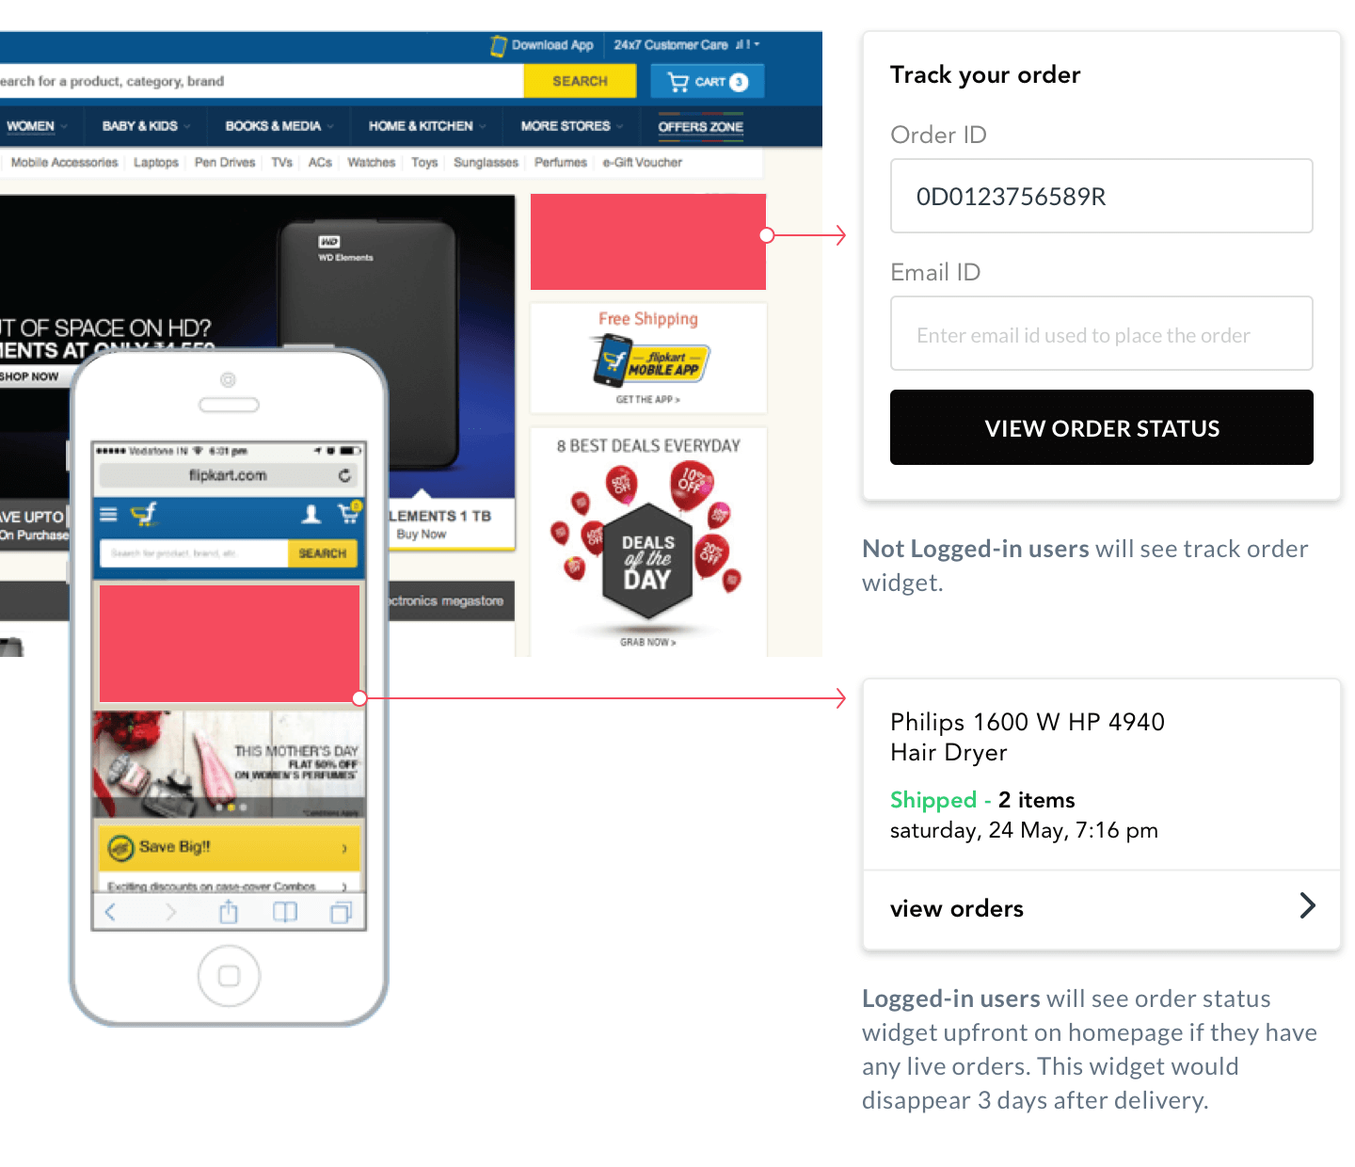
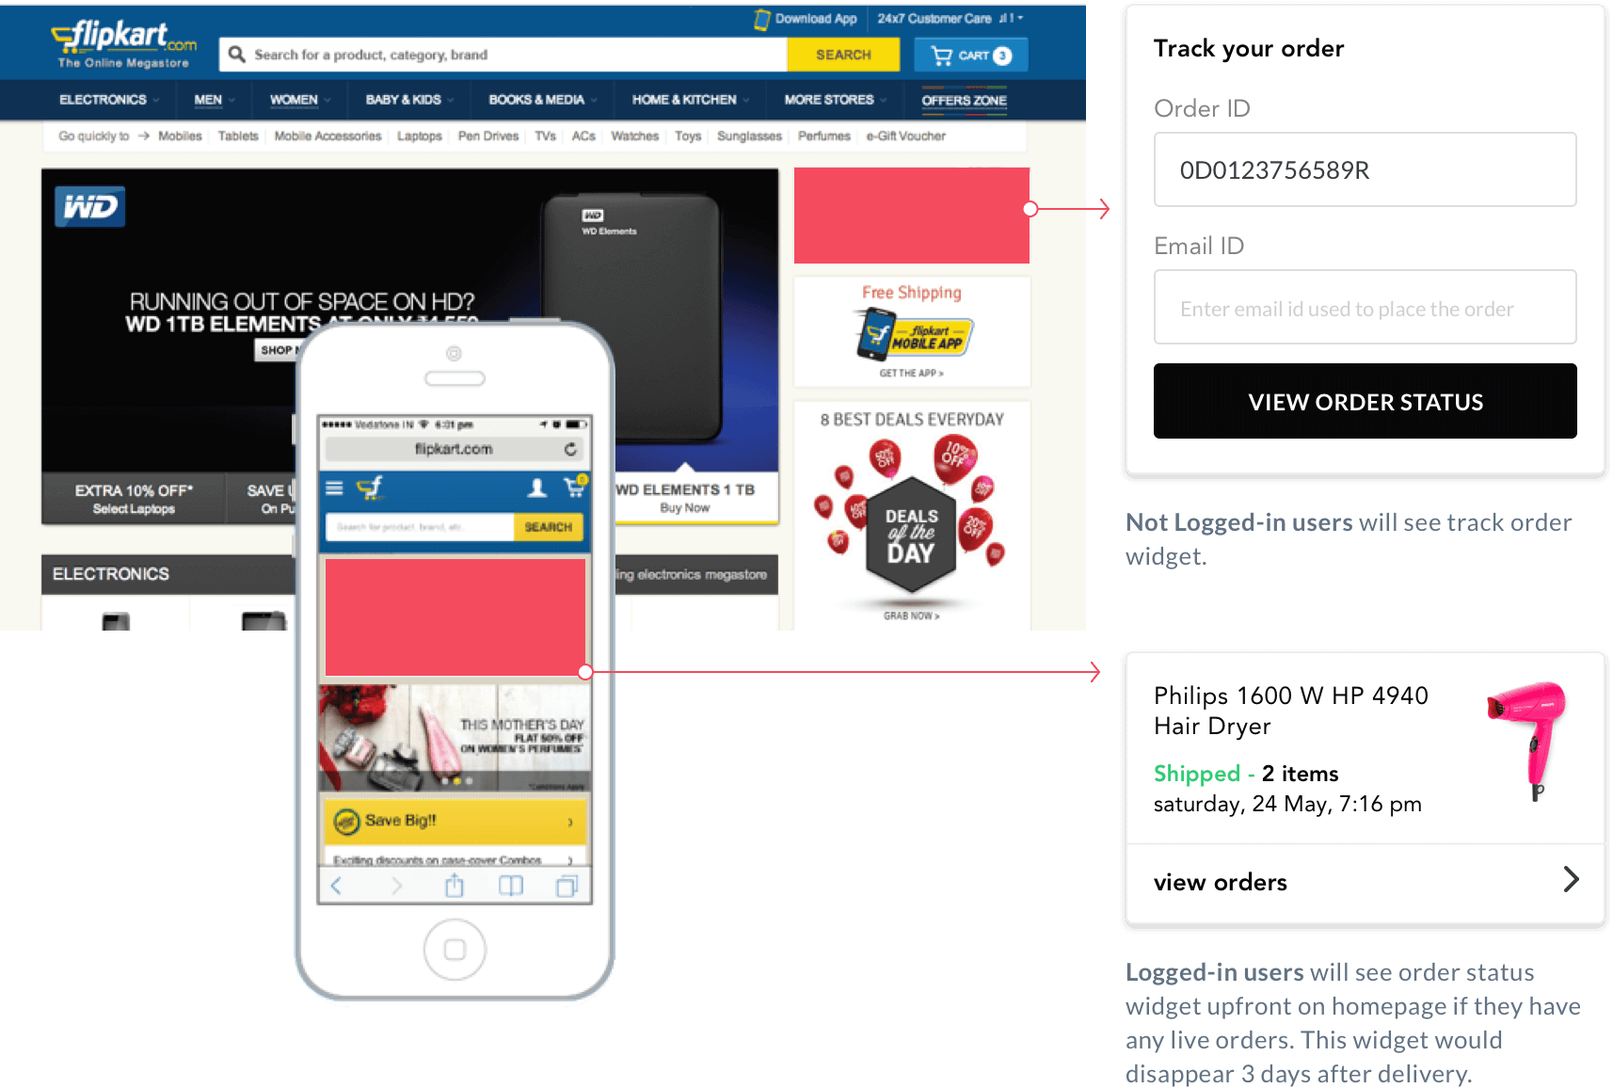
content edits

diff --git a/numberz.html b/numberz.html
@@ -4,12 +4,16 @@
 <head>
     <meta charset="utf-8">
     <title>Parul Bhatti - numberz</title>
-    <meta name="viewport" content="width=device-width, initial-scale = 1.0, maximum-scale=1.0, user-scalable=no" />
+    <meta name="author" content="Parul Bhatti, @parul_bhatti">
+    <meta name="description" content="Portfolio of Parul Bhatti">
+    <meta name="keywords" content="Parul, Bhatti, web standards, CSS, HTML, HTML5, markup, style, web design, web development, ui, ux, bangalore, India">
+    <meta name="viewport" content="width=device-width; initial-scale = 1.0; maximum-scale=1.0; user-scalable=no" />
     <link rel="icon" href="Images/pb_favicon.png" type="image/png"/>
     <link rel="stylesheet" type="text/css" href="css/styles.css">
     <link href="https://fonts.googleapis.com/css?family=Lato" rel="stylesheet">
     <script src="https://code.jquery.com/jquery-3.3.1.js"></script>
     <link rel="stylesheet" href="https://unpkg.com/flickity@2/dist/flickity.min.css">
+    <script src="https://unpkg.com/flickity@2/dist/flickity.pkgd.min.js"></script>
 </head>
 
 <body>
@@ -102,16 +106,12 @@
                 <!------------------------------------ PROJECT - FULL WIDTH STARTS ------------------------->
                 <div class="mini_container column_container section-1">
                     <div class="intro_title">numberz</div>
-                    <p>numberz is a fintech startup focussed on building products to help businesses manage their cashflow
-                        and account receivables.</p>
-                    <br>
-                    <p>I joined numberz as one of their first designers and led the design of cashflow management - ios app
-                        single-handedly. After successfully launching the app, I worked with founders on a few fintech solutions
-                        on GST tax filing & payment collections for Chartered Accountants. These experiments however didn’t
-                        saw the day of the light due to change in company strategy. By this time I had built a multi-disciplinary
-                        design team comprising of talents with complementary competencies: a ux intern, ux researcher-cum-designer
-                        & a ux-engg. Together we conceptualized, validated & released Account Receivables web app (mvp) in
-                        early 2018.</p>
+                    <p>numberz is a fintech startup focussed on building products to help businesses manage their cash flow and account receivables.
+                    I joined numberz as one of their first designers and led the design of cashflow management - ios app single-handedly. 
+                    After successfully launching the app, I worked with founders on a few product ideas around GST tax filing & payment collections for Chartered Accountants. 
+                    By this time I had built a multi-disciplinary design team comprising of talents with complementary competencies: a ux intern, ux researcher-cum-designer & a ux-engg. 
+                    Together we designed, validated & released Account Receivables web app in early 2018.</p>
+
                     <div class="info">
                         <p class="sub_info"><span style="font-weight: bold">Role:&nbsp </span> Head of Design</p>
                         <p class="sub_info"><span style="font-weight: bold">Duration:&nbsp </span> 2017-18</p>
@@ -122,16 +122,15 @@
                 </div>
                 <div id="cashflow" class="mini_container column_container section_3">
                     <div class="section_title mt150">Cashflow Management for Small Businesses | ios app</div>
-                    <p>The brief was to design a simple invoicing & expense management ios app that helps numberz’s existing
-                        web app customers manage their business anytime & anywhere on mobile. We followed IOS first approach
-                        to meet the demands of the existing user base which were largely iphone users.</p>
+                    <p>The brief was to design a simple invoicing & expense management ios app that helps numberz’s existing web app customers 
+                        manage their business anytime & anywhere on mobile. We followed ios first approach since the existing user base 
+                        was mostly iphone users.</p>
                     <br>
-                    <p>The project started with understanding the business requirement and studying the way it was addressed
-                        in their web app workflows. The existing web workflows were found to be plagued with a plethora of
-                        UX / UI issues, to name a few: unwidely navigation & fragmented UI. Some of these issues were already
-                        reported by web app users. Idea was to create a simple app that lets the user create, send and track
-                        invoices with ease. I got founder’s alignment on redesigning the core workflows for mobile and following
-                        the ios UI style approach, with the aim to carry it to android & later to web app.</p>
+                    <p>I studied the existing web app and sifted through customer complaints to identify the problem areas in the workflows. 
+                        I got founder's alignment on 'not replicating the web experience on app' since the user expectation and interactions on mobile are different. 
+                        Thinking mobile forced us to think about what’s really important for customers. As a result, we designed & 
+                        released the core functionalities first, i.e. letting customer create, send and track invoices & expenses and 
+                        view critical reports with ease on mobile.</p>
 
                     <div class="target_title">Target customers</div>
                     <p>The target customers were existing numberz’s cashflow management web app users, consisting of freelancers
@@ -186,9 +185,9 @@
                             in one glance. This screen is split into two parts:</p>
                         <br>
                         <p><span style="font-weight: bold">1. Top Carousel:&nbsp</span>Gives an overview of..</p>
-                        <p>> Outstanding Invoices & Money In (paid invoices)</p>
-                        <p>> Pending expenses & Money Out (paid expense)</p>
-                        <p>> Money gain or loss: Health of the bank balance</p>
+                        <p>> Outstanding invoices & Money In </p>
+                        <p>> Pending expenses & Money Out </p>
+                        <p>> Money gain or loss: Health of the bank balance </p>
                         <p>Based on customer validation, the invoice view is kept as default view since most of the customers
                             were keen on seeing the money they need to chase (outstanding invoices) first.</p>
                         <br>
@@ -234,6 +233,7 @@
 
                 <div class="container section_12">
                     <img src="Images/invoice_4.png" class="image">
+                    <p class="image_label" style="margin-top: -50px"> Key reports from web app (left) were redesigned for mobile</p>
                 </div>
 
 
@@ -244,23 +244,21 @@
                 <!------------------------------------ PROJECT - FULL WIDTH STARTS ------------------------->
                 <div class="mini_container column_container section_3">
                     <div class="section_title mt150">Account Receivable | web & mobile responsive app</div>
-                    <p>Account receivable is a CRM of payment collection designed to make collecting money fast, easy, and
-                        highly predictable. It was initially conceptualised & built as an easy to use invoice presentment
-                        tool to help mid-size businesses get a one shot-view of their outstanding: due, overdue invoices
-                        (across all customers) they need to chase for payment collection, with the help of a lightweight
-                        automated reminder engine. The poc of the solution was thoroughly validated in the presale customer
-                        interactions both by sales, design & pm team with the help of design prototypes. </p>
+                    <p>Account receivable is a CRM of payment collection designed to make collecting money fast, easy, and highly predictable. 
+                        It was initially conceptualised & built as an easy to use invoice presentment tool to help mid-size businesses get a one shot-view of 
+                        their outstanding: due, overdue invoices they need to chase for payment collection, with the help of a lightweight automated reminder engine. 
+                        The p.o.c was thoroughly validated in the presale customer interactions both by sales, design & pm team with the help of design prototypes. </p>
                     <br>
-                    <p>Once we got enough validations and decent customer adoption at mid-size business segment lvl, we designed
-                        and upgraded it to full-fledged CRM for collections to fullfill the needs of large businesses with
-                        dedicated finance & collection teams struggling with tedious excels to manage their collections.</p>
+                    <p>Once we got enough validations and decent customer adoption at the mid-size business segment, we designed and upgraded it to full-fledged 
+                        CRM for collections to fulfill the needs of large businesses with dedicated finance & collection teams struggling with 
+                        tedious excels in managing their collections.</p>
 
                     <div class="target_title">Target customers</div>
                     <p>The target customers varried from accountants & sales team (who double up as collection agents) in
                         mid-size busineses (5-30cr) to finance & sales teams in large busineses (70cr & above).</p>
 
                     <div class="info">
-                        <p class="sub_info"><span style="font-weight: bold">Contributors:&nbsp </span> I led a team3 Product
+                        <p class="sub_info"><span style="font-weight: bold">Contributors:&nbsp </span> I led a team of 3 Product
                             Designers </p>
                     </div>
                 </div>
@@ -271,21 +269,18 @@
 
                 <div class="mini_container section_5 mt30 mb30">
                     <div class="para_title">A CRM for collections to get businesses paid faster</div>
-                    <p><span style="font-weight: bold">Problem:&nbsp</span>One of the big challenges in small, medium or
-                        large business is ensuring their customers pay on time so that their business cashflow remains healthy.
-                        Customers many times take 15-50 days to pay over the assigned credit period and this puts business
-                        cashflow at risk. The existing ERP solutions don't cover workflows around payment collections like
-                        keeping a track of business (collection team) & customer interaction on payments/disputes. Hence,
-                        reducing the scope of tracking data that reflects your customer’s behavior dynamically, and on a
-                        real-time basis.</p>
+                    <p><span style="font-weight: bold">Problem:&nbsp</span>One of the big challenges in small, medium or large business is ensuring 
+                        their customers pay on time so that their business cashflow remains healthy. Customers many times take 15-50 days to pay 
+                        over the assigned credit period and this puts business cashflow at risk. The existing ERP solutions don't cover workflows 
+                        around payment collections like keeping a track of business & customer interaction on payments/disputes. Hence, reducing the 
+                        scope of tracking data that reflects customer’s behavior dynamically, and on a real-time basis.</p>
                     <br>
-                    <p><span style="font-weight: bold">Solution:&nbsp</span>We designed CRM for payment collection with integrated
-                        task & activity workflows to manage collection at customer & invoice level, tracking every bit of
-                        information generated during the interaction and progress in real-time. The solution helps collection
-                        team follow up on prioritized tasks, track expected payments, promise-to-pay & solve payment disputes.
-                        It also offers insights on collection team’s performance and better visibility of high & low-risk
-                        customers. Designing for better visibility of information that will aid in timely collection & the
-                        workflows around it was the challenge we had.</p>
+                    <p><span style="font-weight: bold">Solution:&nbsp</span>We designed CRM for payment collection with integrated task & activity 
+                        workflows to manage collection at customer & invoice level, tracking every bit of information generated during the interaction 
+                        and progress in real-time. The solution helps the collection team follow up on prioritized tasks, track expected payments, 
+                        promise-to-pay & solve payment disputes. It also offers insights on the collection team’s performance and better visibility of 
+                        high & low-risk customers. Designing for better visibility of information that will aid in timely collection & the workflows 
+                        around it was the challenge we had.</p>
                 </div>
 
                 <div class="main_gallery section_6 mb50 mt50">
@@ -309,12 +304,11 @@
 
                 <div class="mini_container section_7 mt70">
                     <div class="para_title">Designing tables</div>
-                    <p>Designing an enterprise application means one has to deal with tons of data and grids and tables.
-                        Efficient data tables allow users to scan, analyze, compare, filter, sort, and manipulate information
-                        to derive insights and take informed actions. Some of the key principles that guided table design
-                        process:&nbsp </p>
+                    <p>Designing an enterprise application means one has to deal with tons of data and grids and tables. 
+                        Efficient data tables allow users to scan, analyze, compare, filter, sort, and manipulate information to derive insights and 
+                        take informed actions. Some of the fundamental principles that guided the table design process: </p>
 
-                    <p>1. Ability to scan lots of data at once i.e. show multiple status & data types like numerals & text.</p>
+                    <p>1. Ability to scan lots of data at once, i.e., show various status & data types like numerals & text.</p>
                     <p>2. Help user take informed actions by easy comparison of data in columns & rows.</p>
                 </div>
 
@@ -328,22 +322,18 @@
                 <!------------------------------------ PROJECT - FULL WIDTH STARTS ------------------------->
                 <div class="mini_container column_container section_3">
                     <div class="section_title mt150">Designing nu UI style guide</div>
-                    <p>An early investment in designing a basic UI style guide in parallel with product helped significantly
-                        in building proof of concepts fast be it at a feature level or a whole new product being conceptualized
-                        from grounds up. I didnot have to re-invent the wheel to think about basics like color, use of icons,
-                        typography, buttons etc. This also helped me achieve an almost consistent design language in my workflows,
-                        across all products.</p>
+                    <p>An early investment in designing a basic UI style guide in parallel with product helped significantly in 
+                        building proof of concepts fast be it at a feature level or a whole new product being conceptualized from grounds up. 
+                        I didn't have to re-invent the wheel to think about fundamentals like color, use of icons, typography, buttons, etc. 
+                        This also helped me achieve an almost consistent design language in my workflows, across all products.</p>
                     <br>
-                    <p>As our product scaled and so did our design team. More no. of UI components were designed, old components
-                        like filters, date pickers, tables etc were improved upon to solve more business use cases. By this
-                        time I had one more designer contributing to designing component and another consuming it, hence
-                        the need to make our guidelines more mature & accessible so that it's easier to use and clearer to
-                        discern both for designers & developers with various backgrounds. </p>
+                    <p>As our product scaled, and so did our design team. More no. of UI components were designed, old components like filters, date pickers, tables, 
+                        etc were improved upon to solve more business use cases. By the time I had one more designer contributing to designing component and another 
+                        consuming it, hence the need to make our guidelines more mature & accessible so that it's easier to use and clearer to discern both for designers 
+                        & developers with various backgrounds.</p>
 
                     <div class="info">
-                        <p class="sub_info"><span style="font-weight: bold">Contributors:&nbsp </span> I designed the basic
-                            UI style guide. 2 Product Designers (incl. myself) for scaling it to a mature UI style guide.
-                            </p>
+                        <p class="sub_info"><span style="font-weight: bold">Contributors:&nbsp </span> 2 Product Designers (incl. myself)</p>
                     </div>
                 </div>
                 <div class="full_container section_4 mb50 mt50">

diff --git a/flipkart.html b/flipkart.html
@@ -4,12 +4,16 @@
 <head>
     <meta charset="utf-8">
     <title>Parul Bhatti - numberz</title>
-    <meta name="viewport" content="width=device-width, initial-scale = 1.0, maximum-scale=1.0, user-scalable=no" />
+    <meta name="author" content="Parul Bhatti, @parul_bhatti">
+    <meta name="description" content="Portfolio of Parul Bhatti">
+    <meta name="keywords" content="Parul, Bhatti, web standards, CSS, HTML, HTML5, markup, style, web design, web development, ui, ux, bangalore, India">
+    <meta name="viewport" content="width=device-width; initial-scale = 1.0; maximum-scale=1.0; user-scalable=no" />
     <link rel="icon" href="Images/pb_favicon.png" type="image/png"/>
     <link rel="stylesheet" type="text/css" href="css/styles.css">
     <link href="https://fonts.googleapis.com/css?family=Lato" rel="stylesheet">
     <script src="https://code.jquery.com/jquery-3.3.1.js"></script>
     <link rel="stylesheet" href="https://unpkg.com/flickity@2/dist/flickity.min.css">
+    <script src="https://unpkg.com/flickity@2/dist/flickity.pkgd.min.js"></script>
 </head>
 
 <body>
@@ -216,12 +220,20 @@
                         </div>
                     </div>
 
-                    <div class="full_container row_container section_11 mb70 mt70"> 
+                    <div class="full_container row_container section_11 mb150 mt150"> 
                         <div class="rightcontent_section">
                             <div class="para_title">Proposed track order widget on homepage</div>
-                            <p> The following proposal wasn’t considered as this was one of the most revenue generating touchpoints on homepage, 
-                                reserved only for Offers & Deals showcase.
+                            <p> During user testing, we tasked users to look for their Track Order related info on web & mobile app. 
+                                We observed many of them ended up scanning homepage up & down, and very small % of them went to My Account 
+                                in the top bar to discover their order related info. 
                             </p>
+                            <br>
+                            <p> Clearly, homepage was looked as a touchpoint where users could find everything they need easily and quickly. 
+                                This led me to propose the Track Order (not-logged in users) and Order Status (logged-in users) widget in the 
+                                zones of the highest visibility to catch user’s attention. 
+                            </p>
+                            <br>
+                            <p> This proposal wasn’t considered as the identified zones were the most revenue generating identified touchpoints, reserved only for Offers & Deals showcase. </p>
                         </div>
                         <div class="leftimg_section">
                             <img src="Images/trackwidget.png" class="image">

diff --git a/tablehero.html b/tablehero.html
@@ -4,12 +4,16 @@
 <head>
     <meta charset="utf-8">
     <title>Parul Bhatti - Tablehero</title>
-    <meta name="viewport" content="width=device-width, initial-scale = 1.0, maximum-scale=1.0, user-scalable=no" />
+    <meta name="author" content="Parul Bhatti, @parul_bhatti">
+    <meta name="description" content="Portfolio of Parul Bhatti">
+    <meta name="keywords" content="Parul, Bhatti, web standards, CSS, HTML, HTML5, markup, style, web design, web development, ui, ux, bangalore, India">
+    <meta name="viewport" content="width=device-width; initial-scale = 1.0; maximum-scale=1.0; user-scalable=no" />
     <link rel="icon" href="Images/pb_favicon.png" type="image/png"/>
     <link rel="stylesheet" type="text/css" href="css/styles.css">
     <link href="https://fonts.googleapis.com/css?family=Lato" rel="stylesheet">
     <script src="https://code.jquery.com/jquery-3.3.1.js"></script>
     <link rel="stylesheet" href="https://unpkg.com/flickity@2/dist/flickity.min.css">
+    <script src="https://unpkg.com/flickity@2/dist/flickity.pkgd.min.js"></script>
 </head>
 
 <body>
@@ -335,7 +339,7 @@
                     <img src="Images/templates.png" class="image">
                     <p class="image_label mt20">I designed color schemes for all templates. These templates come with a unique
                         theme: a set of color, icons, buttons & UI interaction.
-                        <br>Different designers designed & developed these templates.</p>
+                    <br>Different designers designed & developed these templates.</p>
                 </div>
             </div>
             <!--------------------------------------------------- PROJECT - FULL WIDTH STARTS --------------------------------->

diff --git a/index.html b/index.html
@@ -4,6 +4,9 @@
 <head>
     <meta charset="utf-8">
     <title>Parul Bhatti - Work</title>
+    <meta name="author" content="Parul Bhatti, @parul_bhatti">
+    <meta name="description" content="Portfolio of Parul Bhatti">
+    <meta name="keywords" content="Parul, Bhatti, web standards, CSS, HTML, HTML5, markup, style, web design, web development, ui, ux, bangalore, India">
     <meta name="viewport" content="width=device-width; initial-scale = 1.0; maximum-scale=1.0; user-scalable=no" />
     <link rel="icon" href="Images/pb_favicon.png" type="image/png"/>
     <link rel="stylesheet" type="text/css" href="css/styles.css">

diff --git a/css/styles.css b/css/styles.css
@@ -628,7 +628,7 @@ p {
     flex-direction: column;
     justify-content: center;
     width: 50%;
-    padding-left: 70px;
+    padding-left: 100px;
     align-items: top;
     padding-right: 100px;
 }
